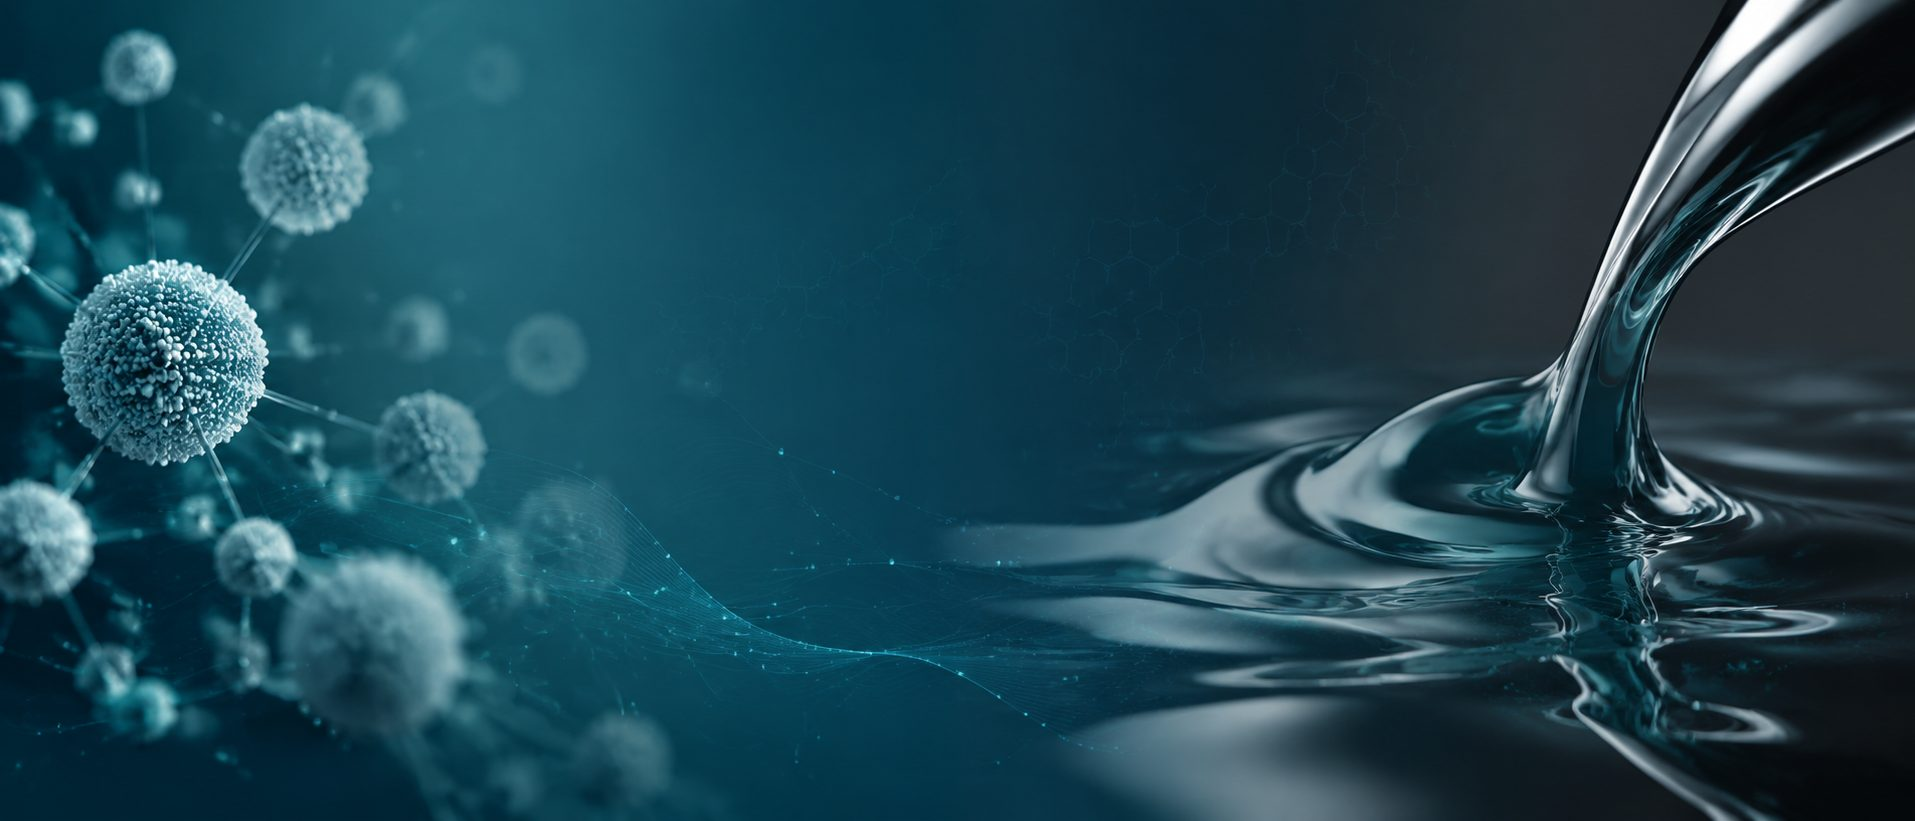
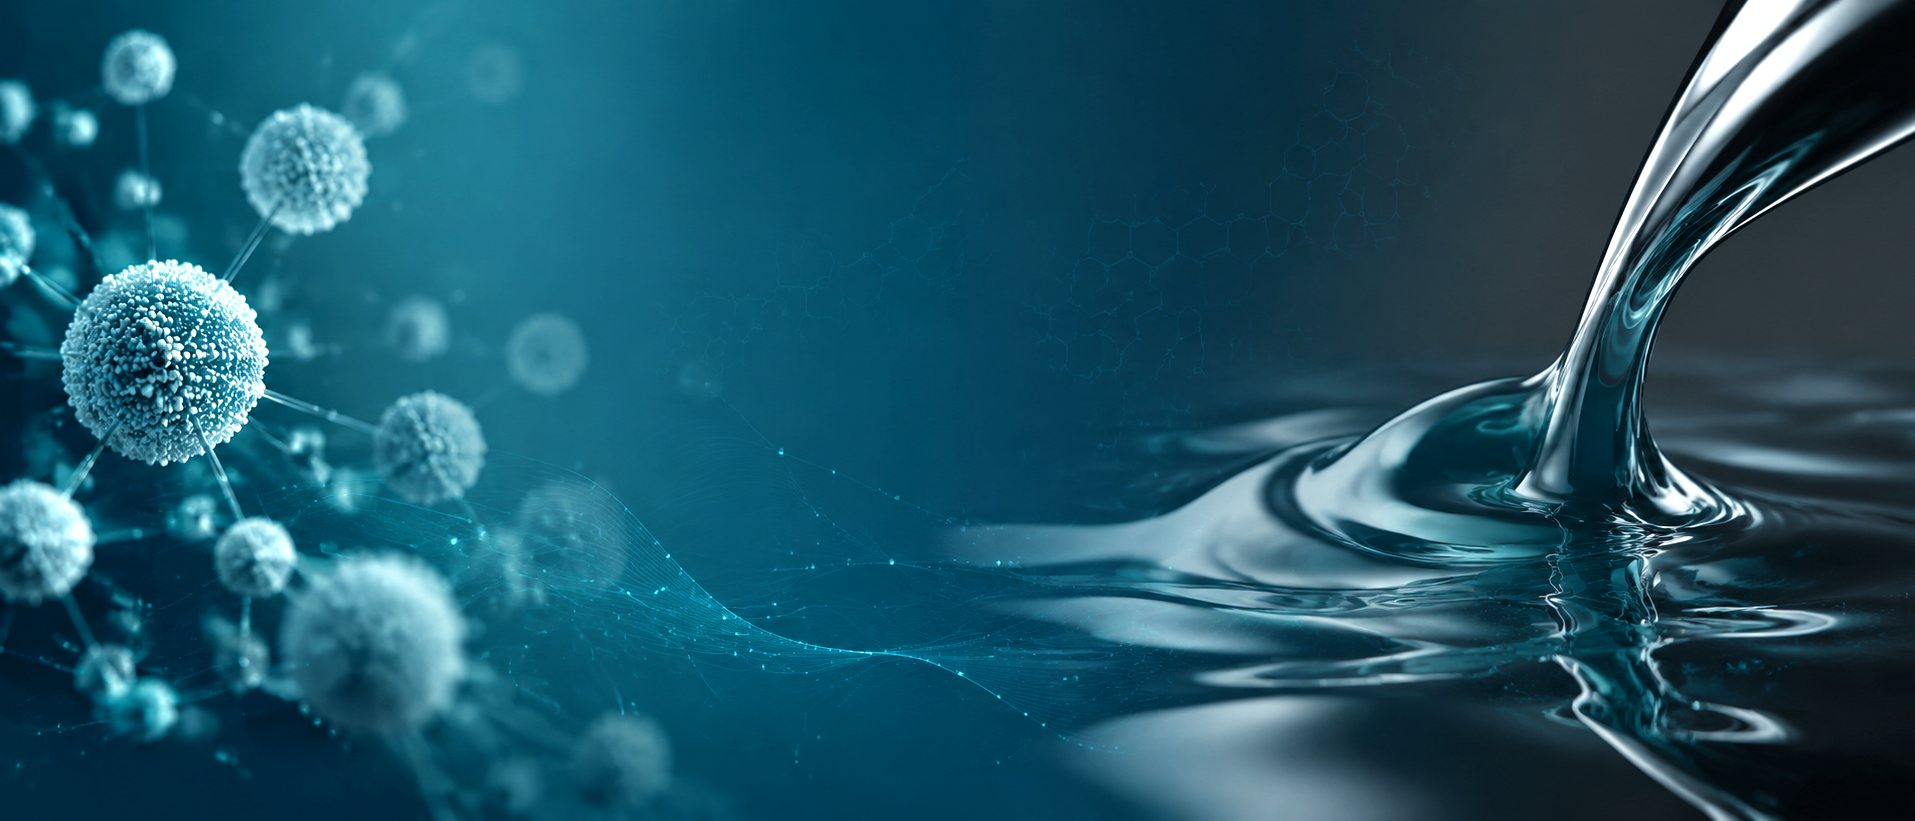
Brighter hero images & lighter overlay, molecular-network particle animation, sheen effect

diff --git a/js/main.js b/js/main.js
@@ -39,14 +39,21 @@
       const cv=document.getElementById('particles');
       if(cv){const ctx=cv.getContext('2d');let W,H,pts;
         const init=()=>{W=cv.width=cv.offsetWidth;H=cv.height=cv.offsetHeight;
-          pts=Array.from({length:Math.min(46,W/28)},()=>({x:Math.random()*W,y:Math.random()*H,
-            r:Math.random()*2.2+.6,vx:(Math.random()-.5)*.18,vy:-Math.random()*.22-.05,a:Math.random()*.4+.15}))};
+          pts=Array.from({length:Math.min(70,W/16)},()=>({x:Math.random()*W,y:Math.random()*H,
+            r:Math.random()*2.6+.8,vx:(Math.random()-.5)*.25,vy:-Math.random()*.3-.06,a:Math.random()*.45+.2}))};
         init();addEventListener('resize',init);
+        const LINK=110;
         (function draw(){ctx.clearRect(0,0,W,H);
+          // connecting lines — molecular network effect
+          for(let i=0;i<pts.length;i++)for(let j=i+1;j<pts.length;j++){
+            const a=pts[i],b=pts[j],dx=a.x-b.x,dy=a.y-b.y,d=dx*dx+dy*dy;
+            if(d<LINK*LINK){ctx.beginPath();ctx.moveTo(a.x,a.y);ctx.lineTo(b.x,b.y);
+              ctx.strokeStyle=`rgba(120,220,208,${.14*(1-d/(LINK*LINK))})`;ctx.lineWidth=1;ctx.stroke()}}
           for(const p of pts){p.x+=p.vx;p.y+=p.vy;
             if(p.y<-6)p.y=H+6;if(p.x<-6)p.x=W+6;if(p.x>W+6)p.x=-6;
             ctx.beginPath();ctx.arc(p.x,p.y,p.r,0,7);
-            ctx.fillStyle=`rgba(180,235,228,${p.a})`;ctx.fill()}
+            ctx.shadowColor='rgba(120,230,215,.8)';ctx.shadowBlur=6;
+            ctx.fillStyle=`rgba(190,240,232,${p.a})`;ctx.fill();ctx.shadowBlur=0}
           requestAnimationFrame(draw)})();
       }
     }

diff --git a/css/style.css b/css/style.css
@@ -63,7 +63,10 @@ h1,h2,h3{line-height:1.12;letter-spacing:-.02em;font-weight:700}
 @keyframes kb{from{transform:scale(1)}to{transform:scale(1.09)}}
 .slide.active .slide-bg.pan{animation:pan 14s linear forwards}
 @keyframes pan{from{transform:translateX(0) scale(1.06)}to{transform:translateX(-2.5%) scale(1.06)}}
-.slide-shade{position:absolute;inset:0;background:linear-gradient(100deg,rgba(4,24,26,.72) 0%,rgba(4,24,26,.38) 45%,rgba(4,24,26,.18) 100%)}
+.slide-shade{position:absolute;inset:0;background:linear-gradient(100deg,rgba(4,24,26,.52) 0%,rgba(4,24,26,.22) 45%,rgba(4,24,26,.04) 100%)}
+.slide-bg{filter:brightness(1.06) saturate(1.05)}
+.hero::after{content:"";position:absolute;inset:0;z-index:2;pointer-events:none;background:linear-gradient(115deg,transparent 30%,rgba(44,195,180,.10) 46%,rgba(255,255,255,.07) 50%,rgba(44,195,180,.10) 54%,transparent 70%);background-size:240% 240%;animation:sheen 9s ease-in-out infinite;mix-blend-mode:screen}
+@keyframes sheen{0%{background-position:120% 120%}50%{background-position:-20% -20%}100%{background-position:120% 120%}}
 #particles{position:absolute;inset:0;pointer-events:none}
 .slide-content{position:relative;z-index:3;max-width:var(--maxw);margin:0 auto;padding:0 24px;height:100%;display:flex;flex-direction:column;justify-content:center}
 .slide-content h1{font-size:clamp(2.3rem,5.4vw,4.1rem);max-width:15ch;margin-bottom:20px;opacity:0;transform:translateY(26px)}
